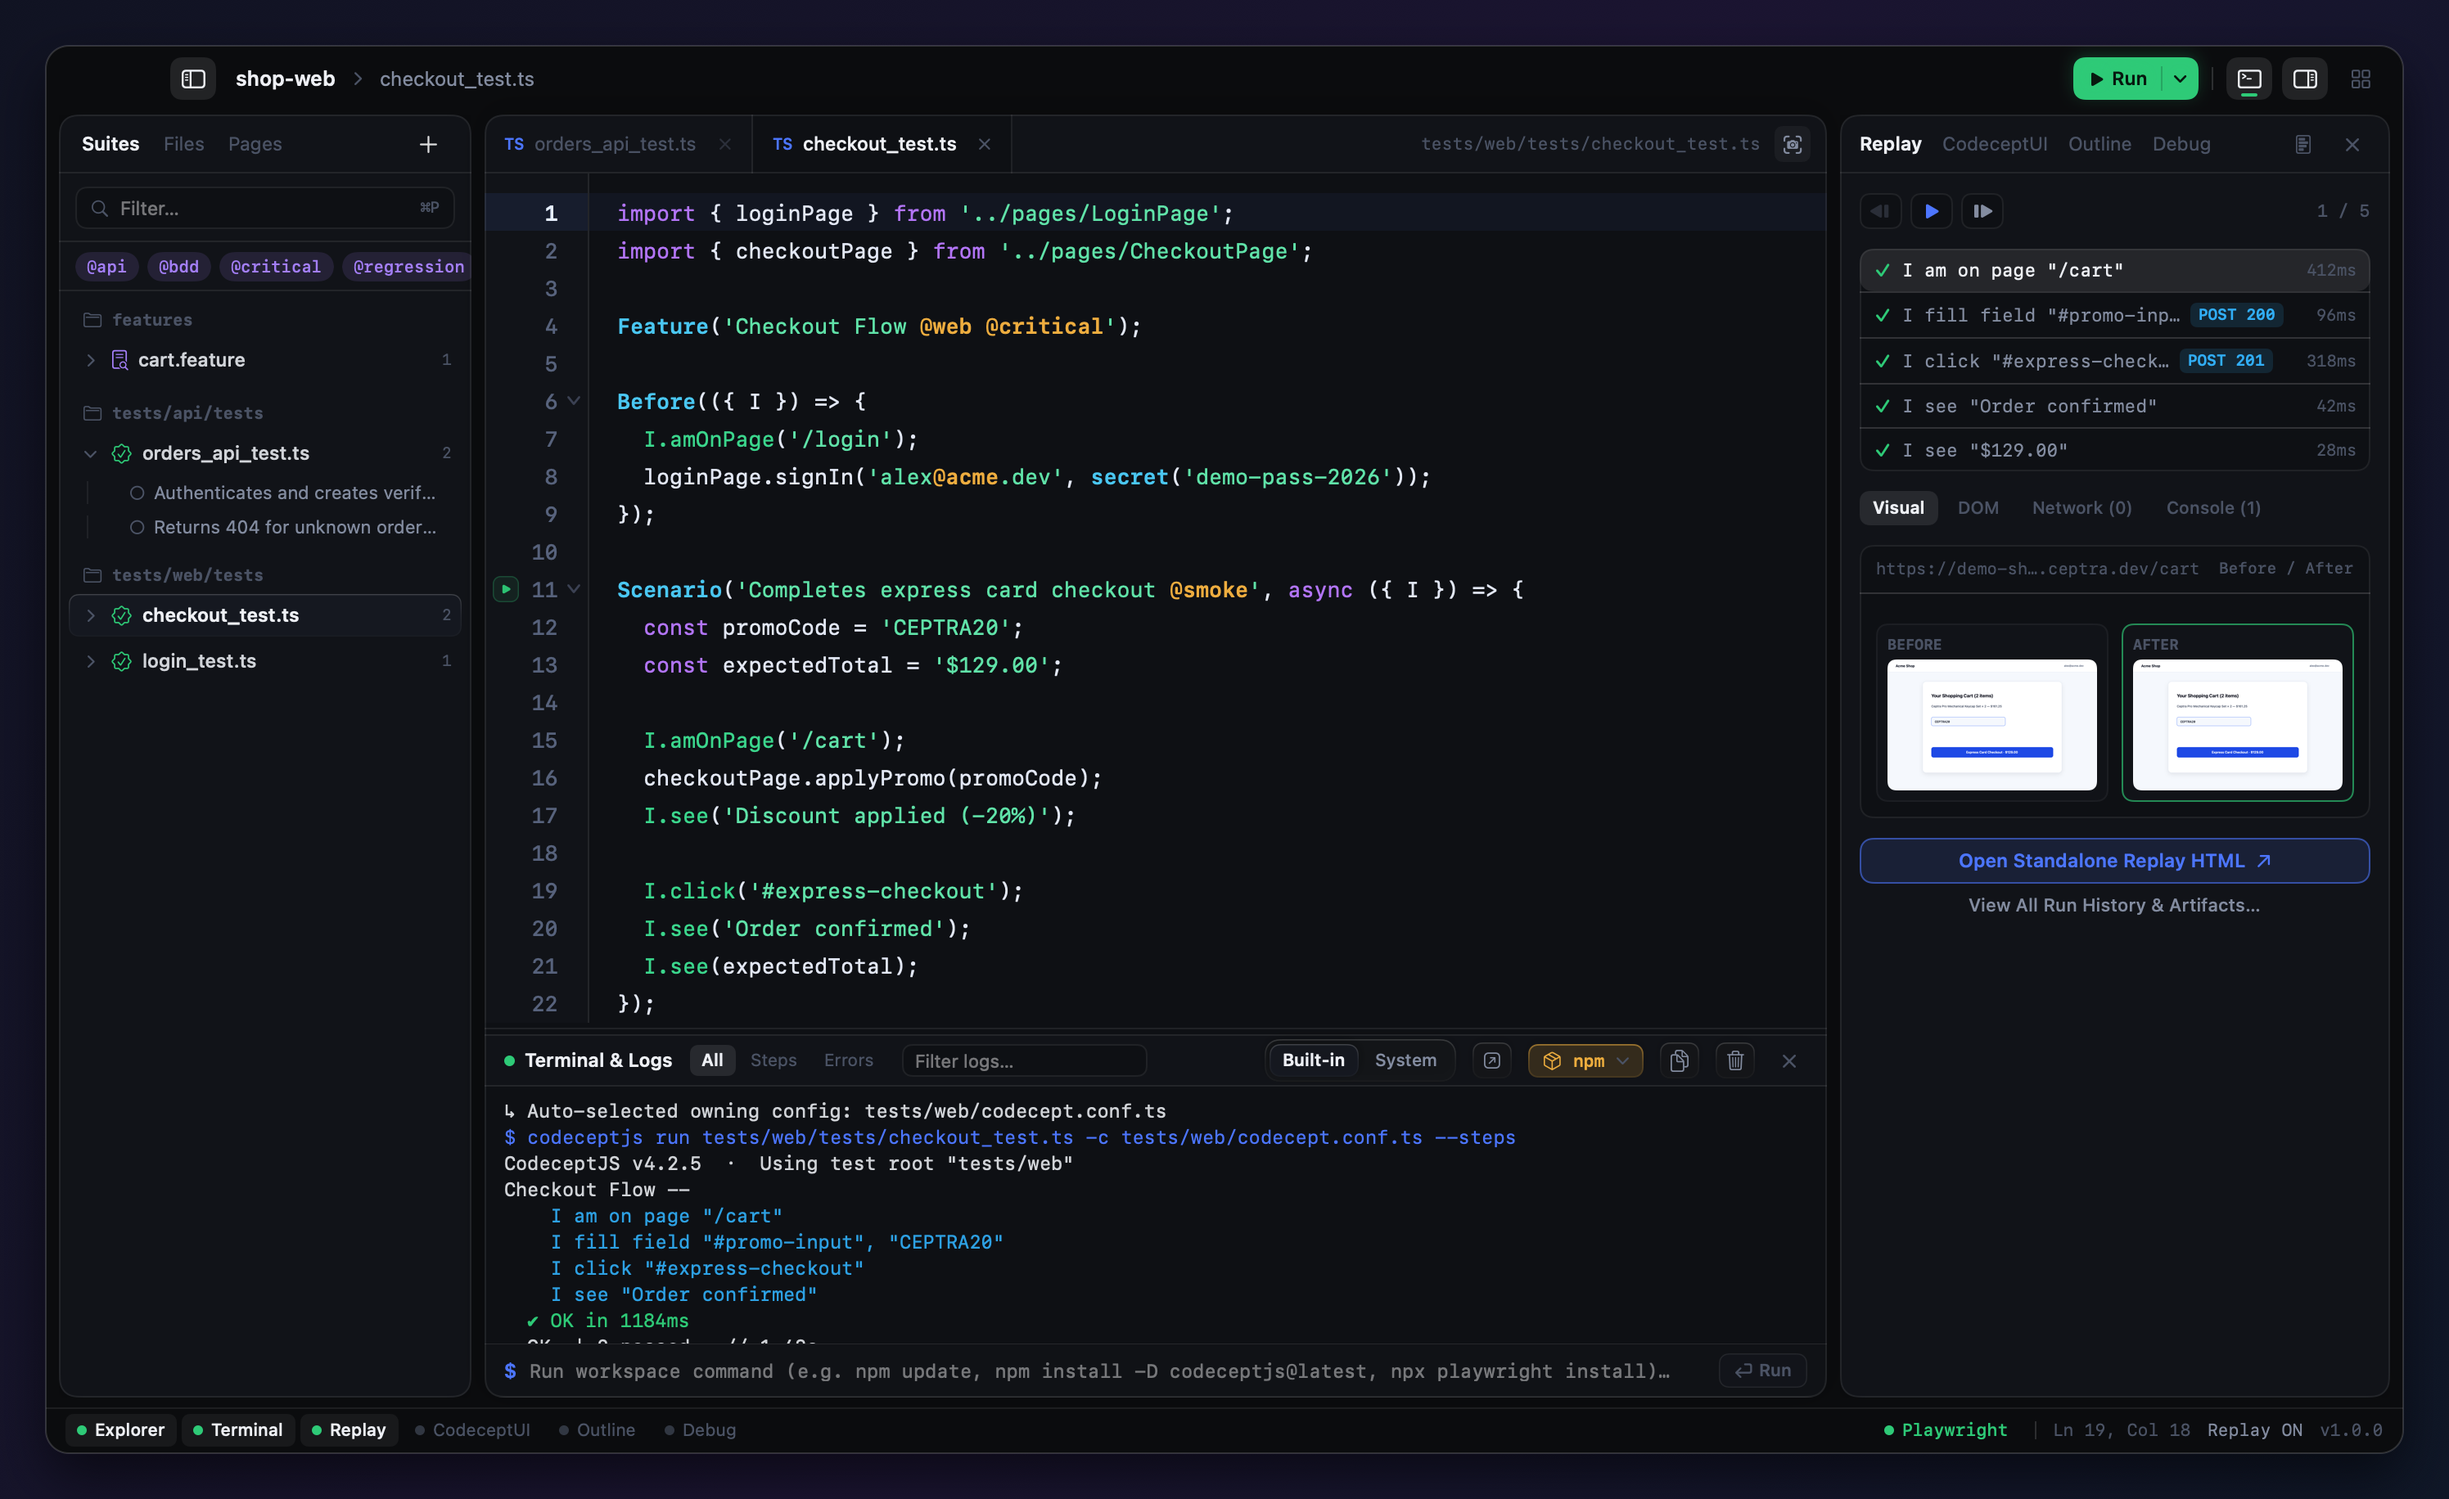
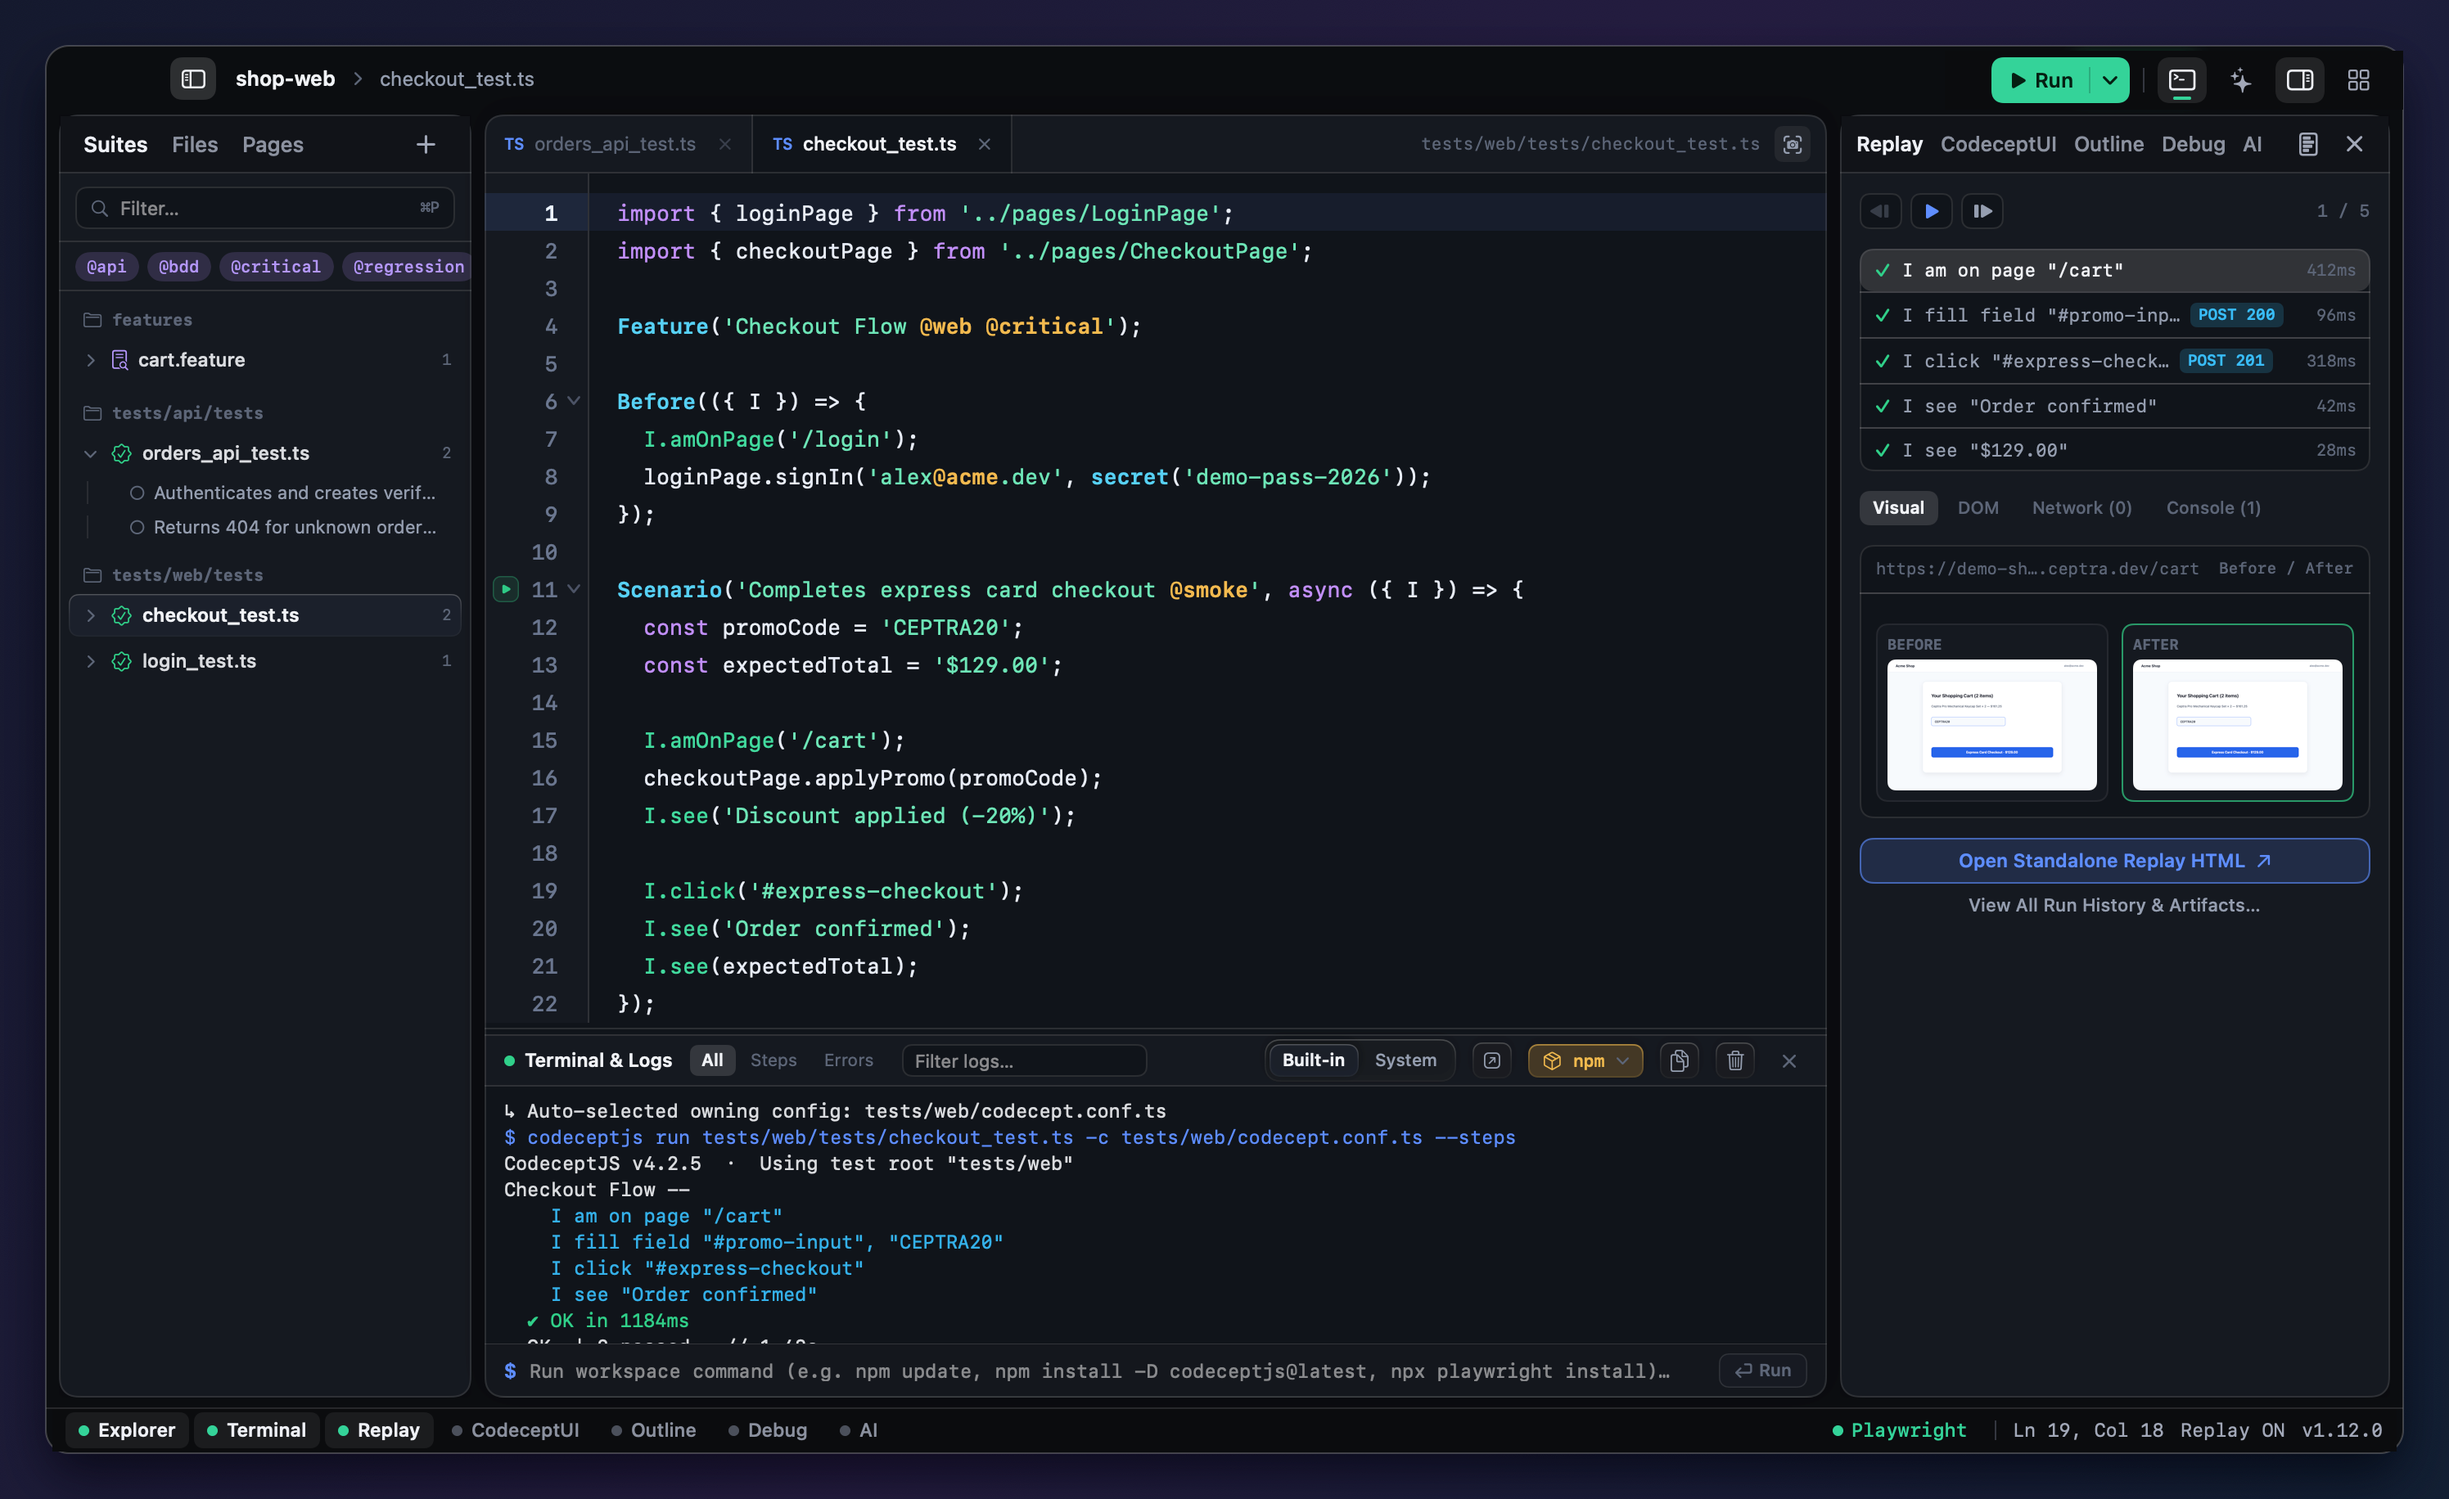
docs: update studio screenshots with AI Assistant tab, /commands preview, and v1.12.0 UI chrome

diff --git a/Sources/Ceptra/Views/RightInspectorWindowView.swift b/Sources/Ceptra/Views/RightInspectorWindowView.swift
@@ -8,9 +8,9 @@ struct RightInspectorWindowView: View {
     var body: some View {
         VStack(spacing: 0) {
             // Plain-text 38pt Right Window Tab Header (Replay · CodeceptUI · Outline · Debug · AI)
-            HStack(spacing: 8) {
+            HStack(spacing: 6) {
                 ScrollView(.horizontal, showsIndicators: false) {
-                    HStack(spacing: 13) {
+                    HStack(spacing: 10) {
                         ForEach(RightInspectorTab.allCases, id: \.self) { tab in
                             let isSelected = appState.activeRightTab == tab
                             Button {
@@ -19,15 +19,18 @@ struct RightInspectorWindowView: View {
                                     appState.persistModulePreferences()
                                 }
                             } label: {
-                                HStack(spacing: 4.5) {
+                                HStack(spacing: 4) {
                                     Text(tab.displayTitle)
-                                        .font(.system(size: 13, weight: isSelected ? .semibold : .medium))
+                                        .font(.system(size: 12.5, weight: isSelected ? .semibold : .medium))
                                         .foregroundStyle(isSelected ? CeptraTheme.textPrimary : CeptraTheme.textSecondary.opacity(0.85))
+                                        .lineLimit(1)
+                                        .fixedSize(horizontal: true, vertical: false)
                                     if tab == .debug && !appState.breakpoints.isEmpty {
                                         Text("\(appState.breakpoints.count)")
                                             .font(.system(size: 10.5, weight: .semibold, design: .monospaced))
                                             .monospacedDigit()
                                             .foregroundStyle(CeptraTheme.accentWarm)
+                                            .fixedSize(horizontal: true, vertical: false)
                                     } else if tab == .ai && appState.isAIStreaming {
                                         Circle()
                                             .fill(CeptraTheme.accent)

diff --git a/README.md b/README.md
@@ -95,6 +95,10 @@ Write scenarios, harden flaky locators, and diagnose Replay traces using local m
 - **Multimodal Attachments**: Paste (`⌘V`) or drag-and-drop screenshots, code/log files, PDFs, and `.mp4`/`.mov` test recordings alongside toggleable workspace context pills (`File`, `Selection`, `Console Errors`, `Replay Trace`, `I.* API`).
 - **3-Tier Permissions &amp; Security**: Switch between **Read-Only** (`Read`), **Ask to Proceed** (`Ask`, unified diff preview before applying), and **Full Permissions** (`Full`, 1-click undoable Apply jailed to the open workspace). API keys stay in macOS Keychain; sensitive files (`.env`, private keys, `~/.ssh`, `~/.aws`, credentials) are blocked and automatically redacted before cloud requests.
 
+<p align="center">
+  <img src="docs/images/studio-ai-assistant.png" alt="Ceptra Native AI Assistant with Local Ollama, Universal /commands (SKILL.md), Apply/Diff, and 3-Tier Permission Mode" width="100%" />
+</p>
+
 ---
 
 ### 4. Code Block Screenshots (`⌘⌥P` / `⌘⌥⇧P`)

diff --git a/docs/FEATURES.md b/docs/FEATURES.md
@@ -124,6 +124,10 @@ Ceptra includes a built-in AI Assistant designed for CodeceptJS 4.x authoring, l
   - Switch between **Read-Only** (`Read`), **Ask to Proceed** (`Ask`, unified diff preview before applying), and **Full Permissions** (`Full`, 1-click undoable Apply scoped strictly to the open workspace).
   - API keys are stored exclusively in macOS Keychain; sensitive files (`.env`, private keys, `~/.ssh`, `~/.aws`, credentials) are blocked from attachment and scrubbed via automatic secret redaction.
 
+<p align="center">
+  <img src="images/studio-ai-assistant.png" alt="Ceptra Native AI Assistant with Local Ollama, Universal /commands (SKILL.md), Apply/Diff, and 3-Tier Permission Mode" width="100%" />
+</p>
+
 ---
 
 ## 8. Multi-Config Monorepos, Node/Bun & System Console
